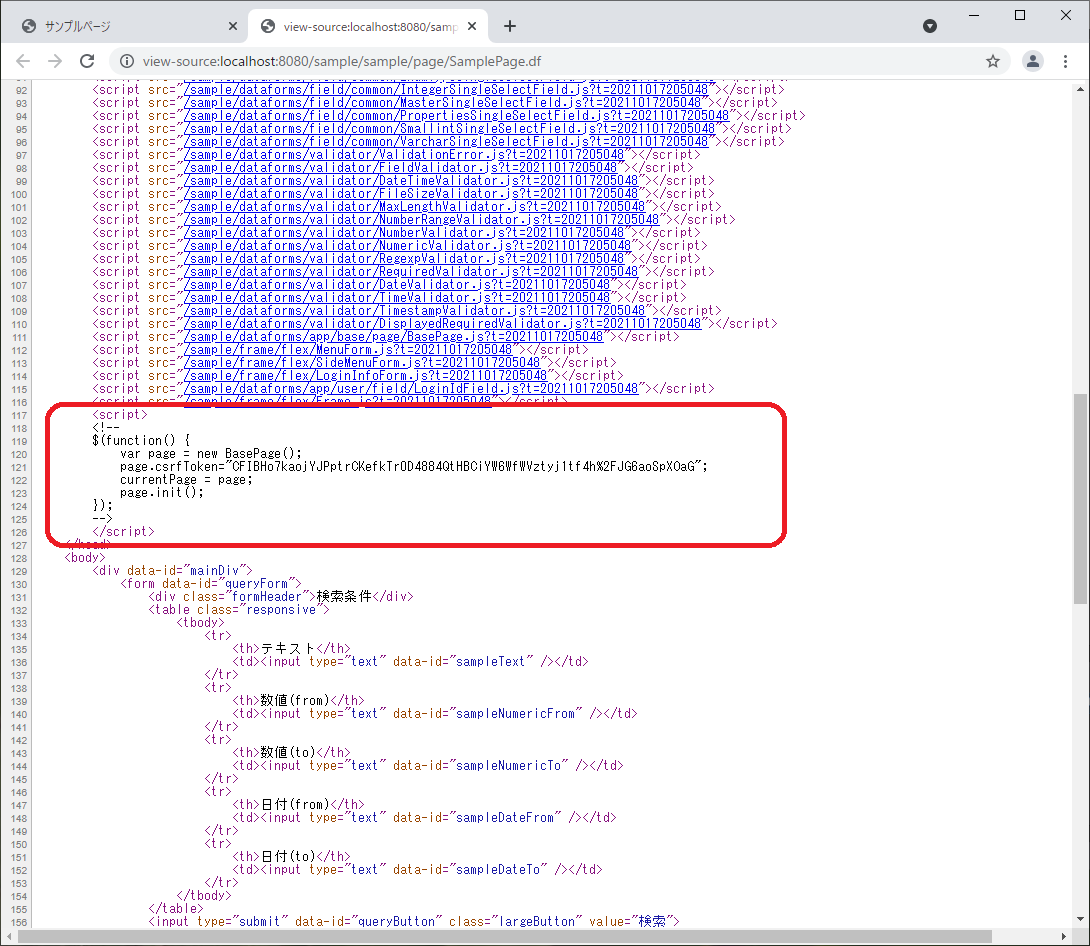
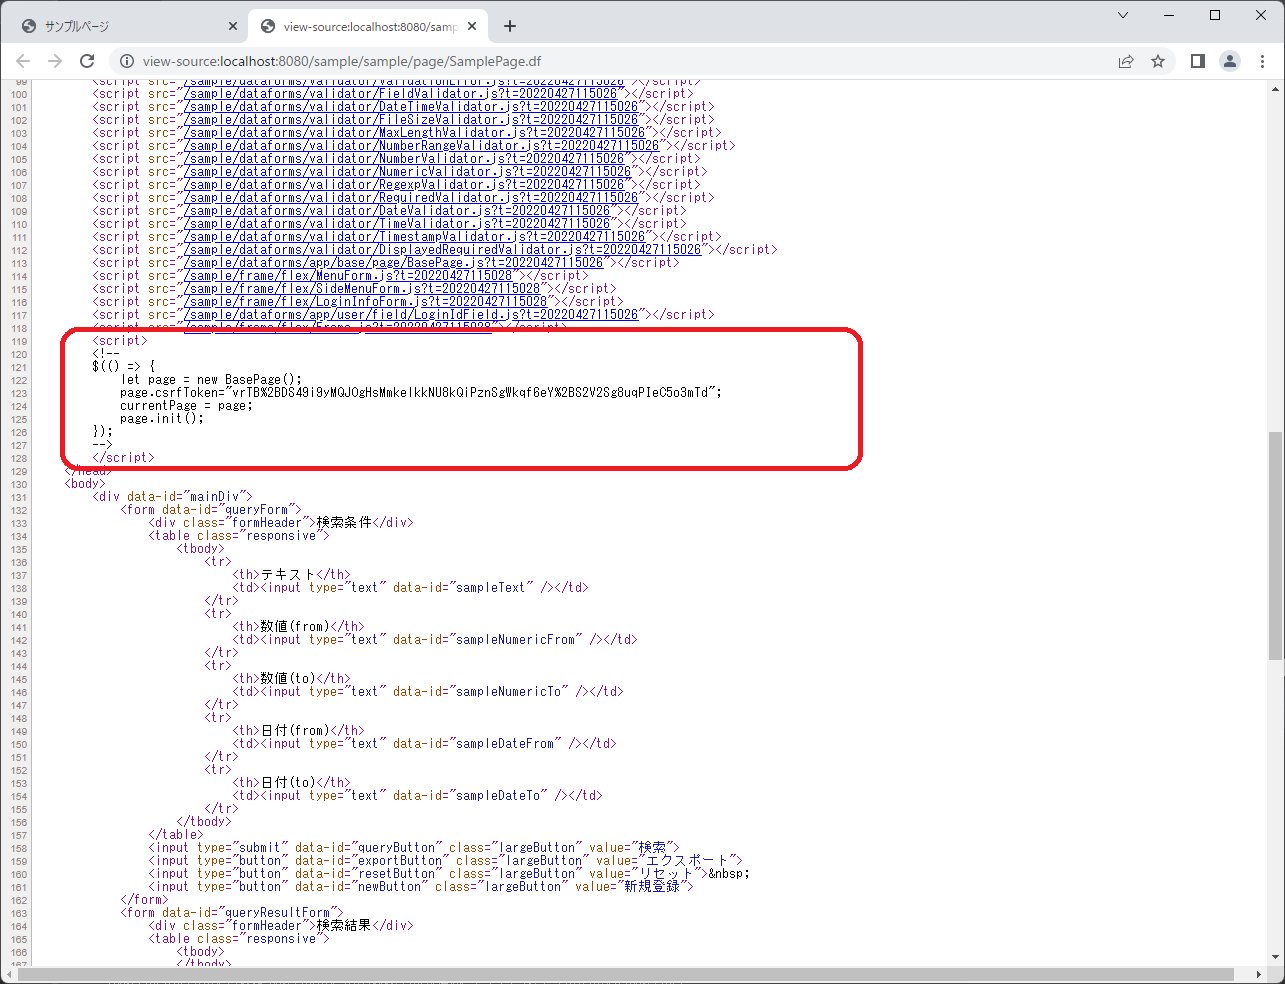
初期化スクリプトの修正。

diff --git a/src/dataforms/controller/Page.java b/src/dataforms/controller/Page.java
@@ -503,16 +503,14 @@ public class Page extends DataForms implements WebEntryPoint {
     private static final  String INIT_SCRIPT0 =
     	"\t\t<script>\n" +
 		"\t\t<!--\n" +
-		"\t\t$(function() {\n";
+		"\t\t$(() => {\n";
 
     /**
      * フォーム初期化メソッド1。
      */
     private static final  String INIT_SCRIPT1 =
-//		"\t\t\tdf.clientValidation = false;\n" +
 		"\t\t\tcurrentPage = page;\n" +
 		"\t\t\tpage.init();\n" +
-//		"\t\t\tpage.attach();\n" +
 		"\t\t});\n" +
 		"\t\t-->\n" +
 		"\t\t</script>\n";
@@ -566,7 +564,7 @@ public class Page extends DataForms implements WebEntryPoint {
 	 */
 	protected void buildInitScript(final StringBuilder sb, final String pageclass, final String csrfToken) throws Exception {
 		sb.append(INIT_SCRIPT0);
-		sb.append("\t\t\tvar page = new " + pageclass + "();\n");
+		sb.append("\t\t\tlet page = new " + pageclass + "();\n");
 		if (csrfToken != null) {
 			sb.append("\t\t\tpage.csrfToken=\"" + java.net.URLEncoder.encode(csrfToken, DataFormsServlet.getEncoding()) + "\";\n");
 		}
